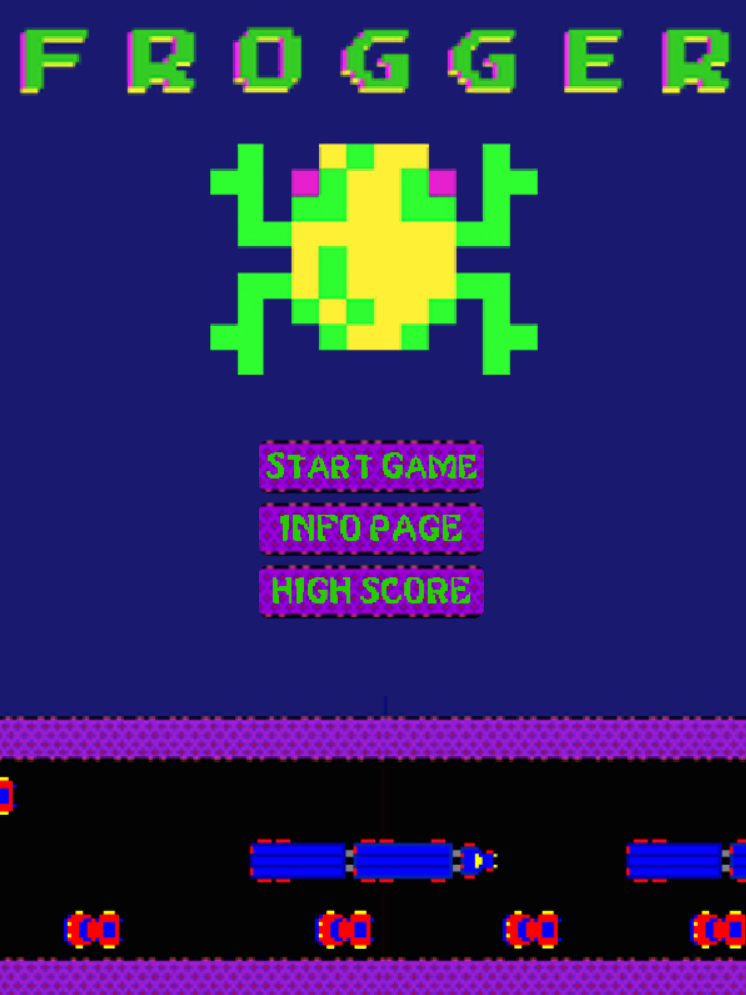
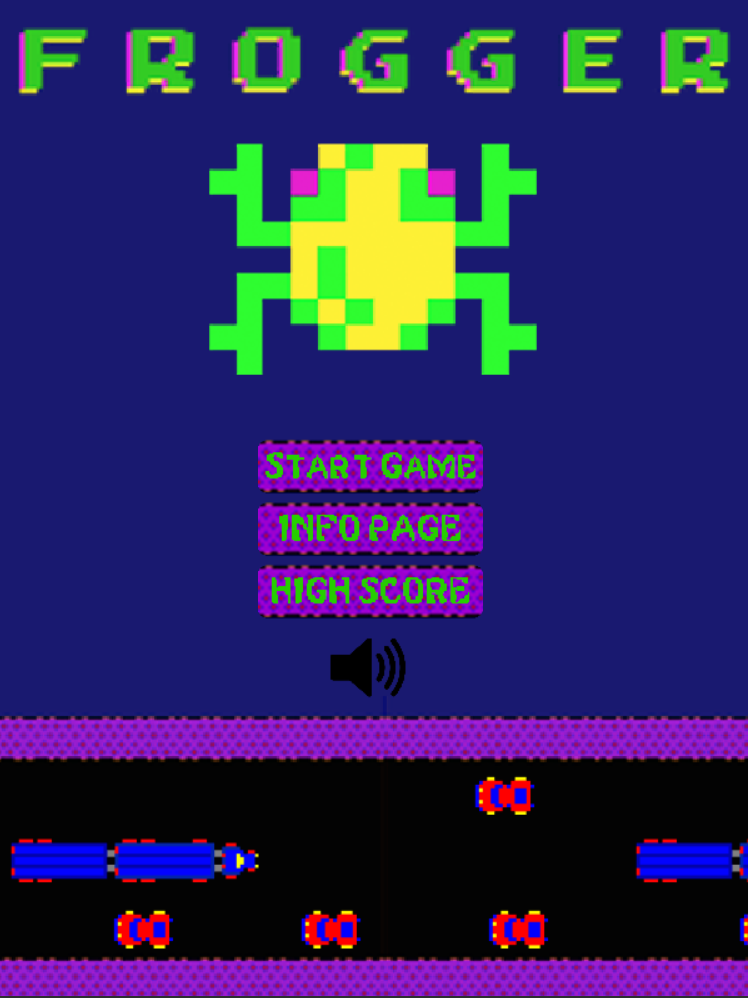
Update animal, game stages and add mute button for the music and edit to reduce lag

diff --git a/SceneClasses/main_page.java b/SceneClasses/main_page.java
@@ -1,7 +1,11 @@
 package p4_group_8_repo.SceneClasses;
 
+import javafx.event.ActionEvent;
+import javafx.event.EventHandler;
 import javafx.scene.Scene;
 import javafx.scene.control.Button;
+import javafx.scene.image.Image;
+import javafx.scene.image.ImageView;
 import p4_group_8_repo.Main;
 import p4_group_8_repo.Object_Controllers.InteractiveObjects.BackgroundImage;
 import p4_group_8_repo.Object_Controllers.MyStage;
@@ -16,6 +20,10 @@ public class main_page{
      */
     private MyStage mainStage;
     /***
+     * Is music on or off
+     */
+    public static Boolean MusicOn ;
+    /***
      * This is to hold the Scene of the page of main page
      */
     private Scene mainScene;
@@ -24,6 +32,7 @@ public class main_page{
      */
     public main_page()
     {
+        MusicOn = true;
         mainStage = new MyStage();
         BackgroundImage mainPageBackGround = new BackgroundImage("file:src/p4_group_8_repo/Assets/BackGrounds/mainPageBackground.png");
         mainStage.add(mainPageBackGround);
@@ -31,6 +40,7 @@ public class main_page{
         Button startButton = new ButtonClass("file:src/p4_group_8_repo/Assets/ButtonImages/startGameButton.png",180,45,200,350);
         Button InfoPageButton = new ButtonClass("file:src/p4_group_8_repo/Assets/ButtonImages/InfoGameButton.png",180,45,200,400);
         Button HighScorePageButton = new ButtonClass("file:src/p4_group_8_repo/Assets/ButtonImages/HighScoreButton.png",180,45,200,450);
+        Button MusicButton = new ButtonClass("file:src/p4_group_8_repo/Assets/MusicIcon/soundOn.png",65,65,255,500);
 
         mainStage.add(new Obstacle("file:src/p4_group_8_repo/Assets/GameObjects/car1Left.png", 100, 730, -1, 50, 50));
         mainStage.add(new Obstacle("file:src/p4_group_8_repo/Assets/GameObjects/car1Left.png", 250, 730, -1, 50, 50));
@@ -40,12 +50,28 @@ public class main_page{
         mainStage.add(new Obstacle("file:src/p4_group_8_repo/Assets/GameObjects/truck2Right.png", 500, 673, 1, 200, 200));
         mainStage.add(new Obstacle("file:src/p4_group_8_repo/Assets/GameObjects/car1Left.png", 500, 623, -5, 50, 50));
         mainStage.add(new Obstacle("file:src/p4_group_8_repo/Assets/GameObjects/car1Left.png", 100, 730, -1, 50, 50));
-        mainStage.getChildren().addAll(startButton,InfoPageButton,HighScorePageButton);
+        mainStage.getChildren().addAll(startButton,InfoPageButton,HighScorePageButton,MusicButton);
         mainStage.start();
         mainScene = new Scene(mainStage,600,800);
         startButton.setOnAction(e->Main.sceneController.startPageScene(Main.ChooseGameLv));
         InfoPageButton.setOnAction(e->Main.sceneController.startPageScene(Main.InfoPage1));
         HighScorePageButton.setOnAction(e->Main.sceneController.startPageScene(Main.ChooseHighScoreLv));
+        Image SoundOnImage = new Image("file:src/p4_group_8_repo/Assets/MusicIcon/soundOn.png",65,65,true,false);
+        ImageView SoundOnView = new ImageView(SoundOnImage);
+        Image SoundOffImage = new Image("file:src/p4_group_8_repo/Assets/MusicIcon/SoundOff.png",65,65,true,false);
+        ImageView SoundOffView = new ImageView(SoundOffImage);
+        MusicButton.setOnAction(new EventHandler<ActionEvent>() {
+            @Override public void handle(ActionEvent e) {
+                if (MusicOn == true){
+                    MusicOn = false;
+                    MusicButton.setGraphic(SoundOffView);
+                }
+                else{
+                    MusicOn = true;
+                    MusicButton.setGraphic(SoundOnView);
+                }
+            }
+        });
     }
     /***
      * To get the Scene of the page of main page

diff --git a/Object_Controllers/InteractiveObjects/Animal.java b/Object_Controllers/InteractiveObjects/Animal.java
@@ -90,10 +90,6 @@ public class Animal extends Actor {
 	 */
 	private boolean changeScore = false;
 	/***
-	 * For easier testing change god mode to true
-	 * */
-	private boolean GodMode = false;
-	/***
 	 *  Car death animation handler
 	 */
 	private int carD = 0;
@@ -154,7 +150,7 @@ public class Animal extends Actor {
 				if (second) {
 					if (event.getCode() == KeyCode.W) {
 						move(0, -movement);
-						if (isInWall()&& !GodMode){
+						if (isInWall()){
 							move(0, movement);
 						}
 		                changeScore = false;
@@ -286,7 +282,7 @@ public class Animal extends Actor {
 		if (getX() < Border.getX1()) {
 			move(movement * 2, 0);
 		}
-		if (carDeath && !GodMode) {
+		if (carDeath) {
 			noMove = true;
 			if ((now) % 11 == 0) {
 				carD++;
@@ -314,7 +310,7 @@ public class Animal extends Actor {
 			}
 
 		}
-		if (waterDeath&& !GodMode) {
+		if (waterDeath) {
 			noMove = true;
 			if ((now) % 11 == 0) {
 				carD++;
@@ -352,9 +348,6 @@ public class Animal extends Actor {
 		if (getIntersectingObjects(Obstacle.class).size() >= 1) {
 			carDeath = true;
 		}
-			/*if (getX() == 240 && getY() == 82) {
-				stop = true;
-			}*/
 		if (getIntersectingObjects(Log.class).size() >= 1 && !noMove) {
 			if (getIntersectingObjects(Log.class).get(0).getLeft())
 				move(-2, 0);
@@ -384,7 +377,7 @@ public class Animal extends Actor {
 			//setX(300);
 			//setY(679.8+movement);
 		}
-		else if (getIntersectingObjects(PushingWall.class).size()>=1 && !noMove && !GodMode){
+		else if (getIntersectingObjects(PushingWall.class).size()>=1 && !noMove){
 			move(1*(getIntersectingObjects(PushingWall.class).get(0).getSpeed()), 0);
 			if (getX()<0 || getX()>600){
 				carDeath = true;
@@ -421,7 +414,7 @@ public class Animal extends Actor {
 	}
 
 	/***
-	 *
+	 * To check if in wall.
 	 * @return true if the animal is dectected touching a wall or in wall else false
 	 */
 	public boolean isInWall(){

diff --git a/SceneClasses/gameSceneClasses/gameLv2.java b/SceneClasses/gameSceneClasses/gameLv2.java
@@ -7,6 +7,7 @@ import p4_group_8_repo.Main;
 import p4_group_8_repo.Object_Controllers.*;
 import p4_group_8_repo.Object_Controllers.InteractiveObjects.*;
 import p4_group_8_repo.SceneClasses.ButtonClass;
+import p4_group_8_repo.SceneClasses.main_page;
 
 /***
  * This is to set the page of the game level 2
@@ -91,7 +92,6 @@ public class gameLv2 implements GameScene {
         Stage2.add(new Digit(0, 40, 290, 40));
         animal = new Animal("file:src/p4_group_8_repo/Assets/froggerUp.png",waterDeath,300,679.8,Border);
         Stage2.add(animal);
-        Stage2.start();
         gameScene2 =new Scene(Stage2,600,800);
     }
     /***
@@ -145,7 +145,10 @@ public class gameLv2 implements GameScene {
      * To start the game and music
      */
     public void start() {
-        //Stage1.playMusic();
+        if (main_page.MusicOn){
+            Stage2.playMusic();
+        }
+        Stage2.start();
         int holdpoint = Main.sceneController.getHighestScore(Main.HighScore2);
         int shift = 0;
         Stage2.add(new Digit(0, 40, 570, 40));

diff --git a/SceneClasses/gameSceneClasses/gameLv3.java b/SceneClasses/gameSceneClasses/gameLv3.java
@@ -7,6 +7,7 @@ import p4_group_8_repo.Main;
 import p4_group_8_repo.Object_Controllers.*;
 import p4_group_8_repo.Object_Controllers.InteractiveObjects.*;
 import p4_group_8_repo.SceneClasses.ButtonClass;
+import p4_group_8_repo.SceneClasses.main_page;
 
 /***
  * This is to set the page of the game level 3
@@ -82,7 +83,6 @@ public class gameLv3 implements GameScene {
         Stage3.add(new Digit(0, 40, 290, 40));
         animal = new Animal("file:src/p4_group_8_repo/Assets/froggerUp.png",waterDeath,300,679.8,Border);
         Stage3.add(animal);
-        Stage3.start();
         gameScene3 =new Scene(Stage3,600,800);
     }
     /***
@@ -136,7 +136,10 @@ public class gameLv3 implements GameScene {
      * To start the game and music
      */
     public void start() {
-        //Stage1.playMusic();
+        if (main_page.MusicOn){
+            Stage3.playMusic();
+        }
+        Stage3.start();
         int holdpoint = Main.sceneController.getHighestScore(Main.HighScore3);
         int shift = 0;
         Stage3.add(new Digit(0, 40, 570, 40));

diff --git a/SceneClasses/gameSceneClasses/gameLv1.java b/SceneClasses/gameSceneClasses/gameLv1.java
@@ -7,6 +7,7 @@ import p4_group_8_repo.Main;
 import p4_group_8_repo.Object_Controllers.*;
 import p4_group_8_repo.Object_Controllers.InteractiveObjects.*;
 import p4_group_8_repo.SceneClasses.ButtonClass;
+import p4_group_8_repo.SceneClasses.main_page;
 
 /***
  * This is to set the page of the game level 1
@@ -109,7 +110,6 @@ public class gameLv1 implements GameScene {
         //background.add(obstacle);
         //background.add(obstacle1);
         //background.add(obstacle2);
-        Stage1.start();
         gameScene1 =new Scene(Stage1,600,800);
     }
     /***
@@ -174,7 +174,10 @@ public class gameLv1 implements GameScene {
      * To start the game and music
      */
     public void start() {
-        //Stage1.playMusic();
+        if (main_page.MusicOn){
+            Stage1.playMusic();
+        }
+        Stage1.start();
         int holdpoint = Main.sceneController.getHighestScore(Main.HighScore1);
         int shift = 0;
         Stage1.add(new Digit(0, 40, 570, 40));

diff --git a/Tamplates/GameLv/gameTemplate.java b/Tamplates/GameLv/gameTemplate.java
@@ -8,6 +8,7 @@ import p4_group_8_repo.Object_Controllers.*;
 import p4_group_8_repo.Object_Controllers.InteractiveObjects.*;
 import p4_group_8_repo.SceneClasses.ButtonClass;
 import p4_group_8_repo.SceneClasses.gameSceneClasses.GameScene;
+import p4_group_8_repo.SceneClasses.main_page;
 
 /***
  * This is a template of a game level.
@@ -181,7 +182,9 @@ public class gameTemplate implements GameScene {
      * To start the game and music
      */
     public void start() {
-        StageName.playMusic();
+        if (main_page.MusicOn){
+            StageName.playMusic();
+        }
         int holdpoint = Main.sceneController.getHighestScore(Main.HighScore1);
         int shift = 0;
         StageName.add(new Digit(0, 40, 570, 40));

diff --git a/Object_Controllers/MyStage.java b/Object_Controllers/MyStage.java
@@ -45,7 +45,7 @@ public class MyStage extends World {
 	 * this will call to play the music
 	 */
 	public void playMusic() {
-		String musicFile = "src/p4_group_8_repo/Assets/Frogger Main Song Theme (loop).mp3";
+		String musicFile = "src/p4_group_8_repo/Assets/GameObjects/Frogger Main Song Theme (loop).mp3";
 		Media sound = new Media(new File(musicFile).toURI().toString());
 		mediaPlayer = new MediaPlayer(sound);
 		mediaPlayer.setCycleCount(MediaPlayer.INDEFINITE);

diff --git a/README.md b/README.md
@@ -12,6 +12,9 @@ The **Main** class creates objects of main_page,infopage1,infopage2,ChooseLevel,
  to be stored and used later on.  \
  Using a scene controller allows the program to switch scenes easily. 
  
+# Added Main Page
+Button to change scene to main_page,infopage1,ChooseLevel,GameScene and to mute or unmute music.
+
 # Add High Score Controller 
 These classes are modified from "Auther:Shaddix" which is available from [this link](http://forum.codecall.net/topic/50071-ystem/) . \
 The high score controller includes 2 classes "HighscoreManager" and "Score".\
@@ -48,4 +51,5 @@ PushingWall will move and push the player when in contact.
 
 # Added current highest score during game
 This is so that the player can view the current highest score while playing the game.
+
 
